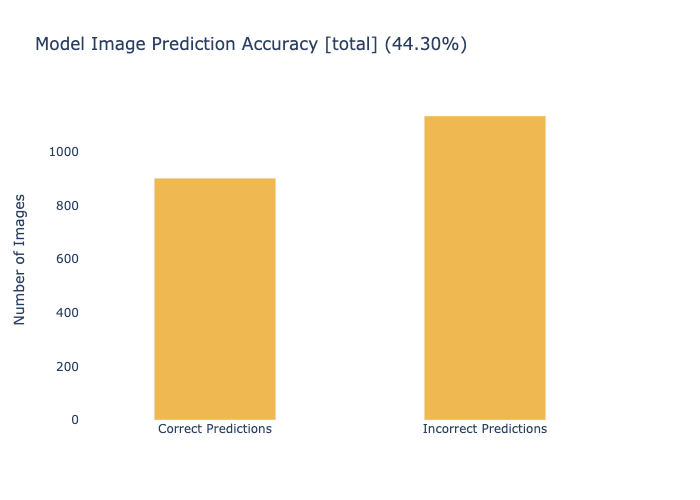
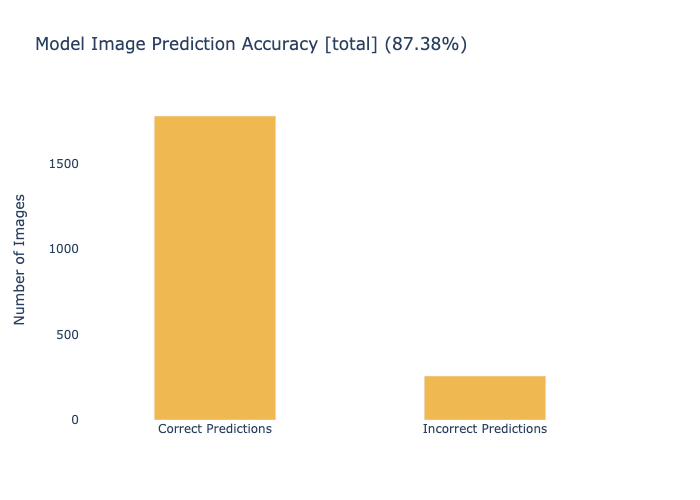
g

diff --git a/jobs/updater.py b/jobs/updater.py
@@ -4,7 +4,7 @@ from apscheduler.schedulers.background import BackgroundScheduler
 def start():
     from .jobs import aggregate_and_retrain_model, categorize_uncategorized_images
     scheduler = BackgroundScheduler()
-    scheduler.add_job(aggregate_and_retrain_model, 'interval', hours=10) #TODO: review
+    scheduler.add_job(aggregate_and_retrain_model, 'interval', minutes=10) #TODO: review
     scheduler.add_job(categorize_uncategorized_images, 'interval', seconds=60)
 
     scheduler.start()

diff --git a/vizualization_tools/model accuracy.py b/vizualization_tools/model accuracy.py
@@ -5,7 +5,7 @@ import plotly.io as pio
 total_images = 2036
 
 # Number of correctly predicted images
-correct_predictions = 902
+correct_predictions = 1779
 
 # Calculate the accuracy percentage
 accuracy_percentage = (correct_predictions / total_images) * 100
